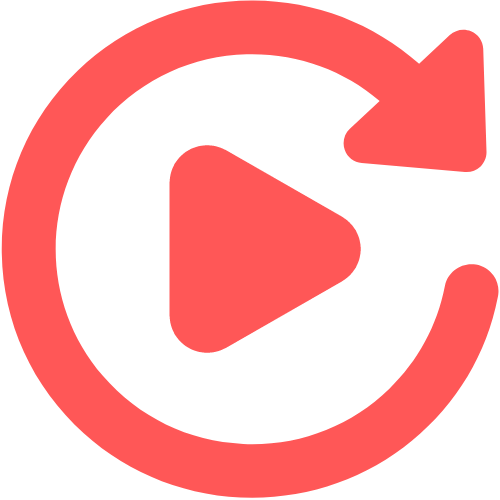
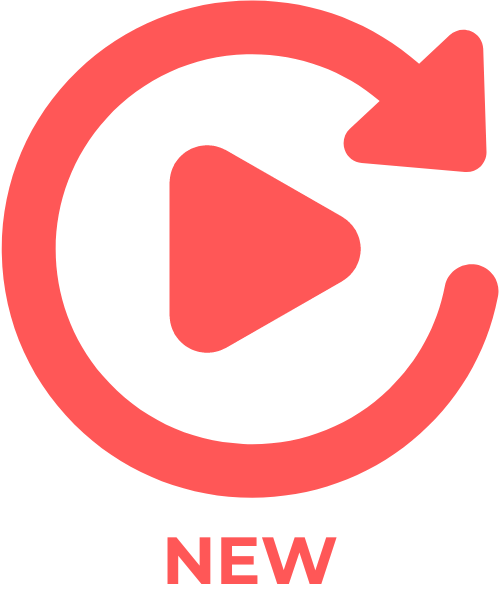
Update button

diff --git a/Display.py b/Display.py
@@ -136,7 +136,7 @@ class Display():
         # get button
         self.buttons = buttons
         for button in self.buttons.keys():
-            self.buttons[button] = Button_Image(button, self.buttons[button],(96, 96))
+            self.buttons[button] = Button_Image(button, self.buttons[button],(96, 115))
 
         # get board
         self.text_boxes = []
